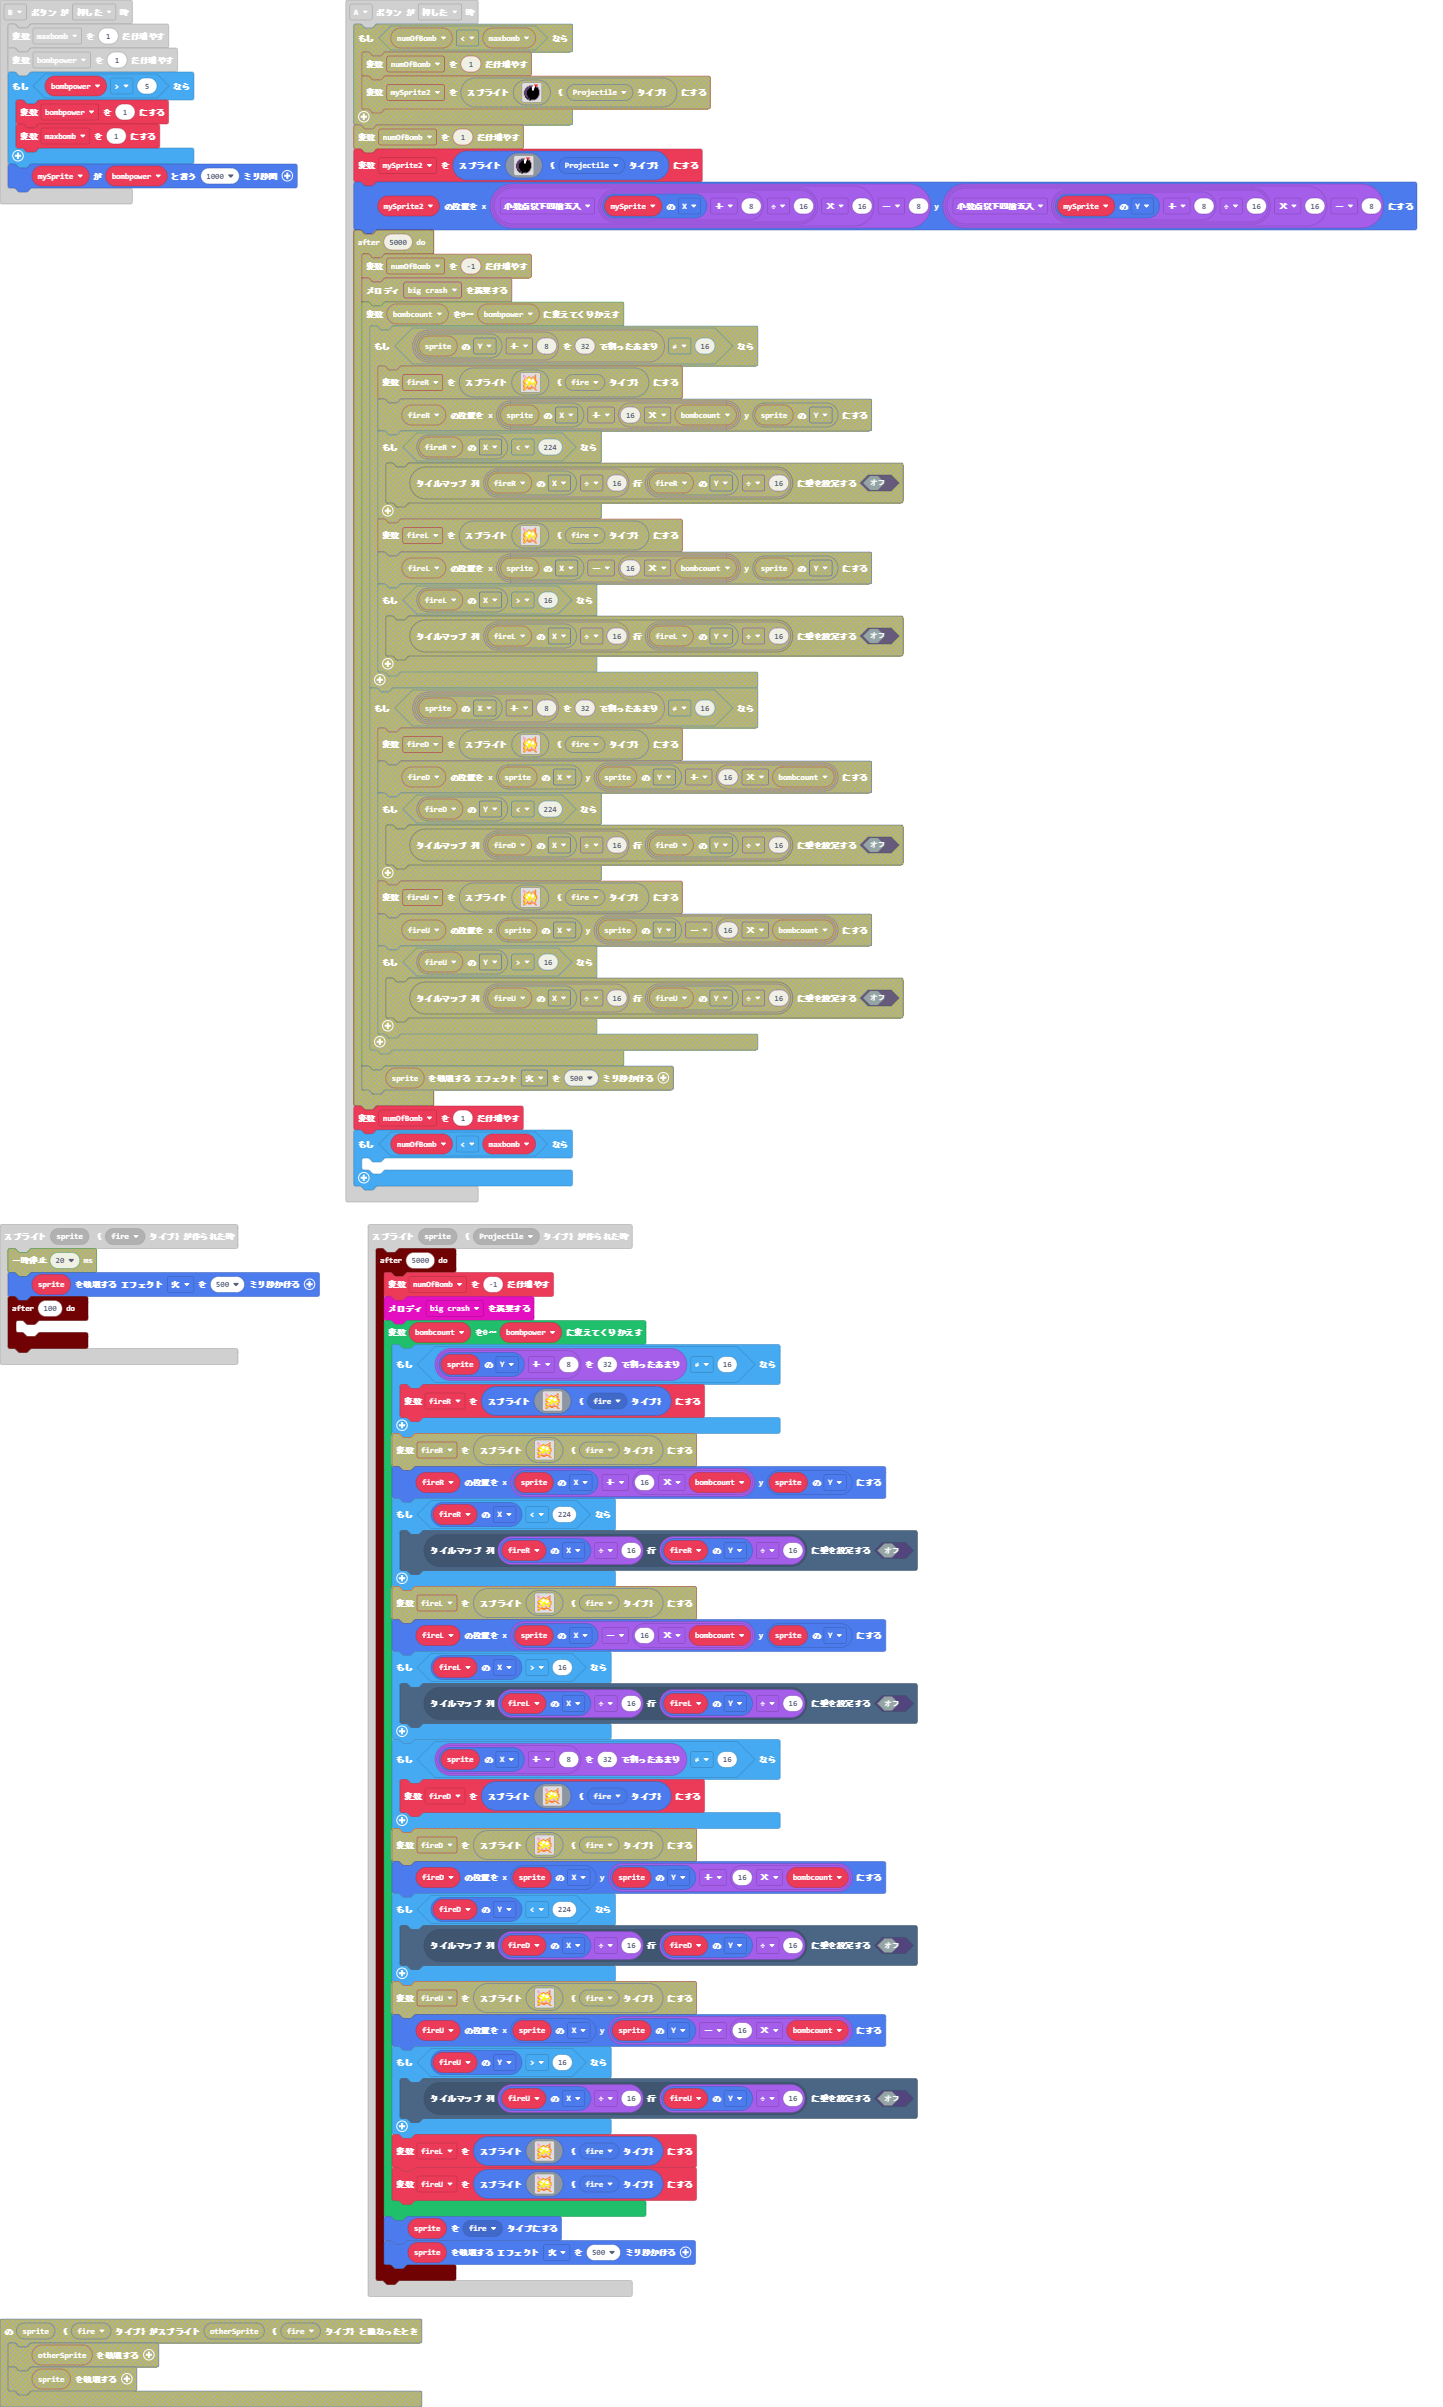
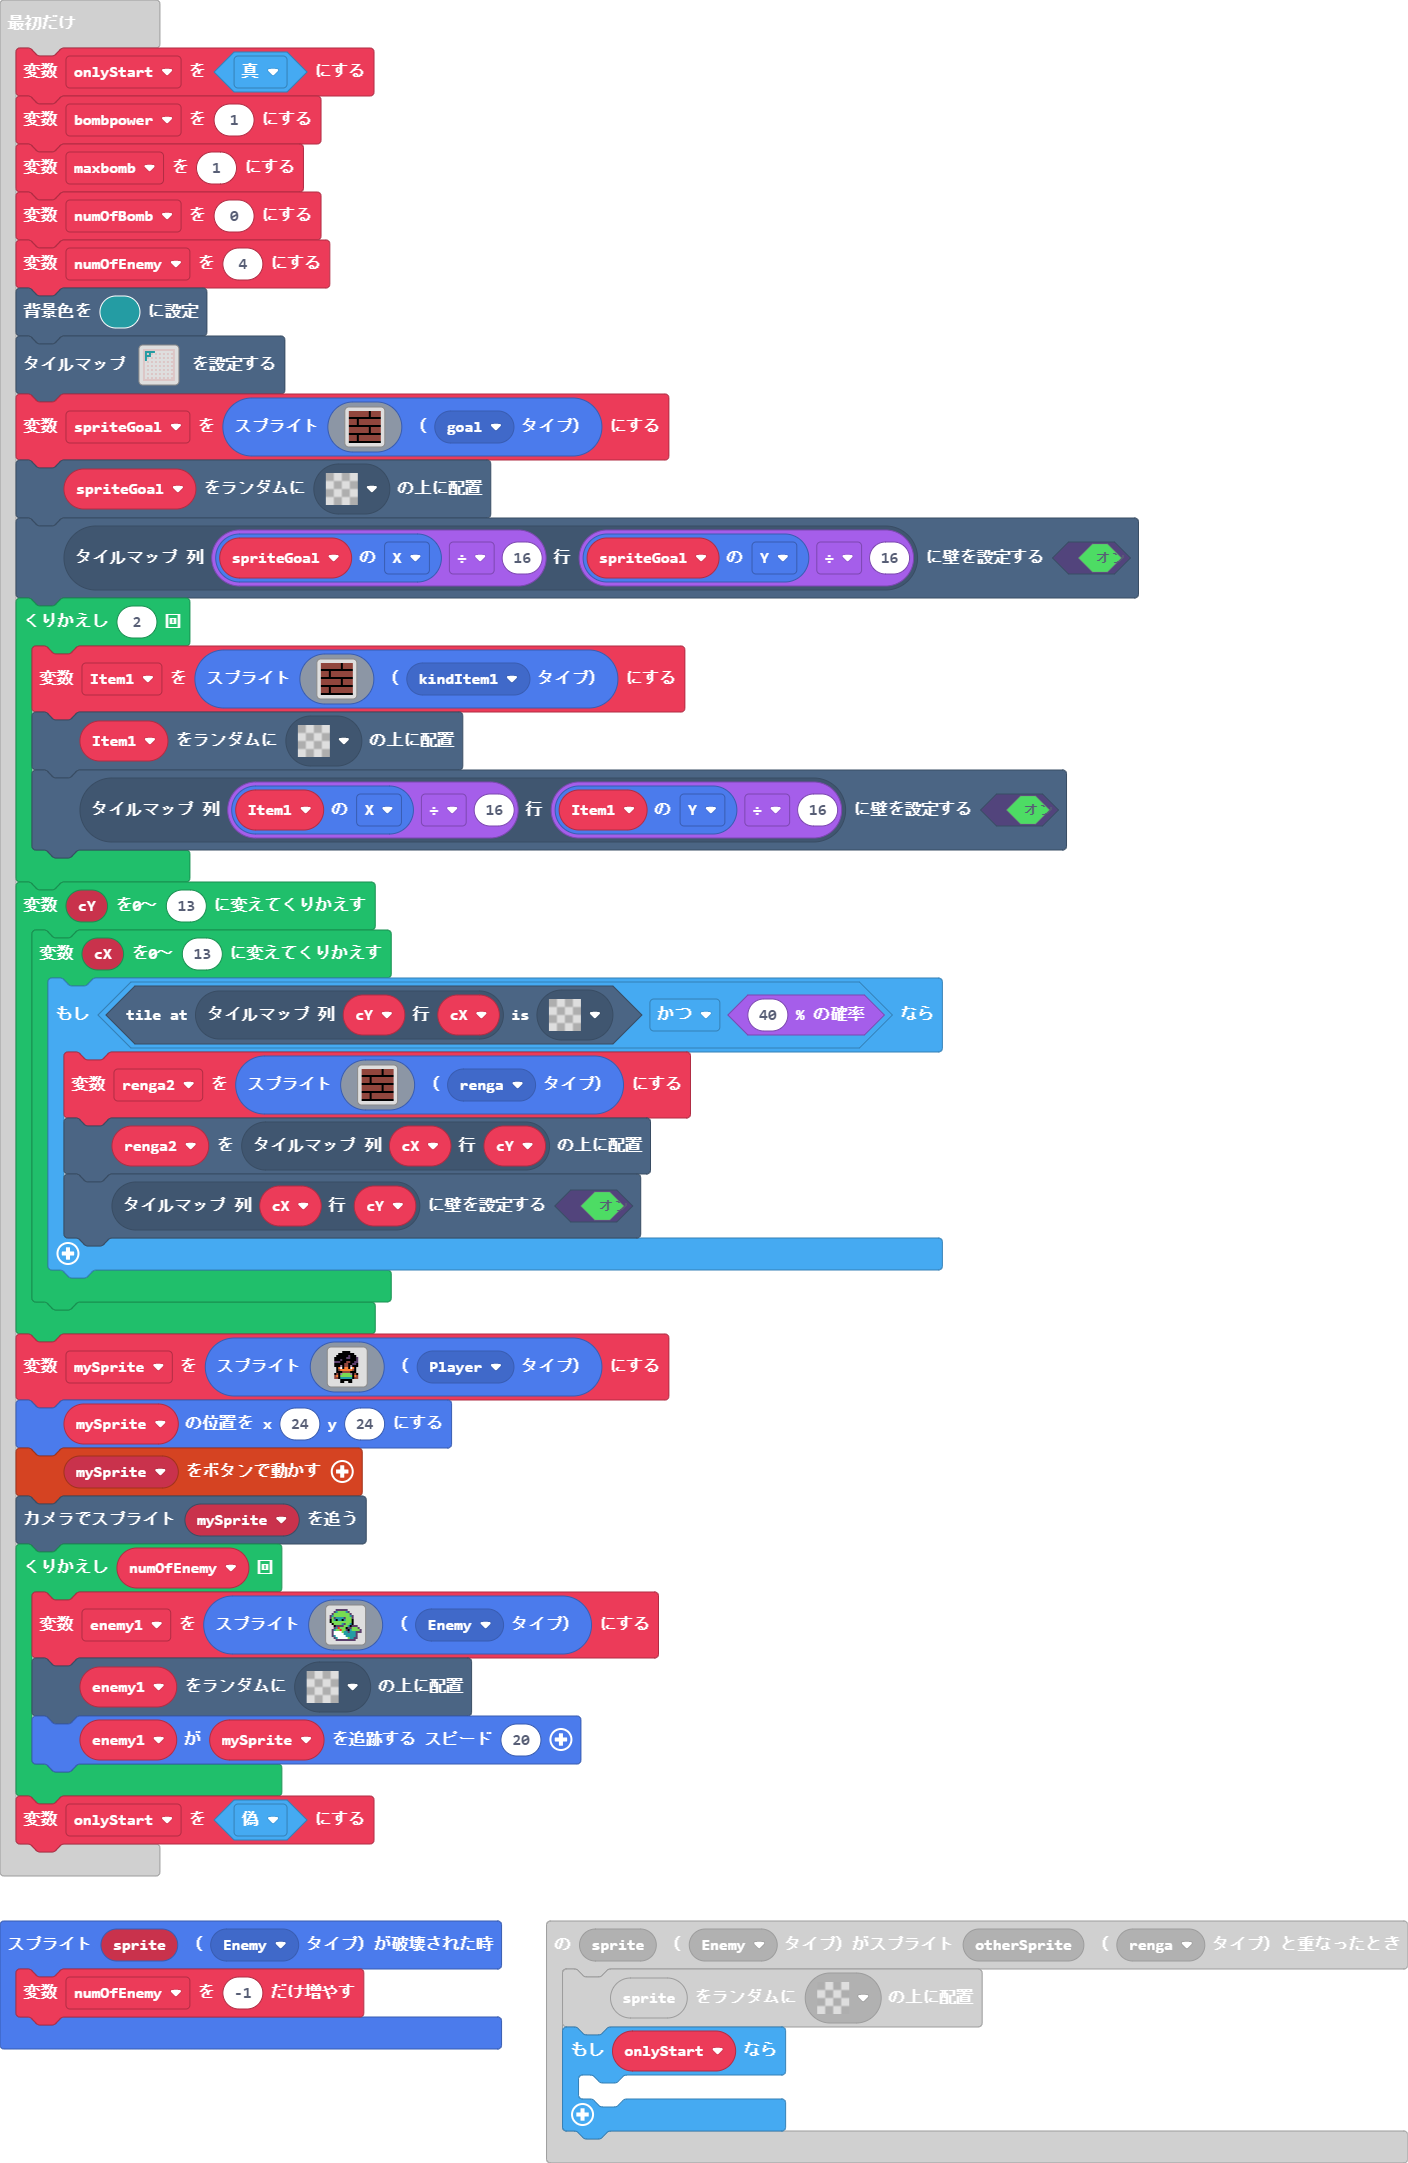
更新 main.blocks, main.ts, tilemap.g.jres, tilemap.g.ts

diff --git a/main.ts b/main.ts
@@ -6,6 +6,7 @@ namespace SpriteKind {
     export const spriteItem = SpriteKind.create()
     export const kindItem1 = SpriteKind.create()
     export const fire1 = SpriteKind.create()
+    export const check = SpriteKind.create()
 }
 controller.right.onEvent(ControllerButtonEvent.Pressed, function () {
     mySprite.setImage(img`
@@ -128,16 +129,13 @@ controller.left.onEvent(ControllerButtonEvent.Pressed, function () {
         `)
 })
 controller.B.onEvent(ControllerButtonEvent.Pressed, function () {
-    maxbomb += 1
-    bombpower += 1
-    if (bombpower > 5) {
-        bombpower = 1
-        maxbomb = 1
-    }
-    mySprite.say(bombpower, 1000)
+	
 })
 sprites.onOverlap(SpriteKind.Enemy, SpriteKind.renga, function (sprite, otherSprite) {
     tiles.placeOnRandomTile(sprite, assets.tile`transparency16`)
+    if (onlyStart) {
+    	
+    }
 })
 sprites.onOverlap(SpriteKind.Player, SpriteKind.goal, function (sprite, otherSprite) {
     game.over(true)
@@ -264,6 +262,9 @@ sprites.onCreated(SpriteKind.Projectile, function (sprite) {
         sprite.destroy(effects.fire, 500)
     })
 })
+sprites.onDestroyed(SpriteKind.Enemy, function (sprite) {
+    numOfEnemy += -1
+})
 sprites.onOverlap(SpriteKind.Player, SpriteKind.Enemy, function (sprite, otherSprite) {
     game.over(false)
 })
@@ -303,9 +304,12 @@ let Item1: Sprite = null
 let numOfBomb = 0
 let maxbomb = 0
 let bombpower = 0
+let onlyStart = false
+onlyStart = true
 bombpower = 1
 maxbomb = 1
 numOfBomb = 0
+let numOfEnemy = 4
 scene.setBackgroundColor(6)
 tiles.setTilemap(tilemap`レベル1`)
 let spriteGoal = sprites.create(img`
@@ -397,7 +401,7 @@ mySprite = sprites.create(img`
 mySprite.setPosition(24, 24)
 controller.moveSprite(mySprite)
 scene.cameraFollowSprite(mySprite)
-for (let index = 0; index < 4; index++) {
+for (let index = 0; index < numOfEnemy; index++) {
     enemy1 = sprites.create(img`
         . . . c c c c c c . . . . . . . 
         . . c 6 7 7 7 7 6 c . . . . . . 
@@ -419,3 +423,4 @@ for (let index = 0; index < 4; index++) {
     tiles.placeOnRandomTile(enemy1, assets.tile`transparency16`)
     enemy1.follow(mySprite, 20)
 }
+onlyStart = false

diff --git a/tilemap.g.ts b/tilemap.g.ts
@@ -5,9 +5,9 @@ namespace myTiles {
     //% fixedInstance jres blockIdentity=images._tile
     export const tile1 = image.ofBuffer(hex``);
     //% fixedInstance jres blockIdentity=images._tile
-    export const tile3 = image.ofBuffer(hex``);
-    //% fixedInstance jres blockIdentity=images._tile
     export const tile2 = image.ofBuffer(hex``);
+    //% fixedInstance jres blockIdentity=images._tile
+    export const tile3 = image.ofBuffer(hex``);
 
     helpers._registerFactory("tilemap", function(name: string) {
         switch(helpers.stringTrim(name)) {
@@ -115,10 +115,10 @@ namespace myTiles {
             case "transparency16":return transparency16;
             case "myTile":
             case "tile1":return tile1;
-            case "myTile1":
-            case "tile3":return tile3;
             case "myTile0":
             case "tile2":return tile2;
+            case "myTile1":
+            case "tile3":return tile3;
         }
         return null;
     })
